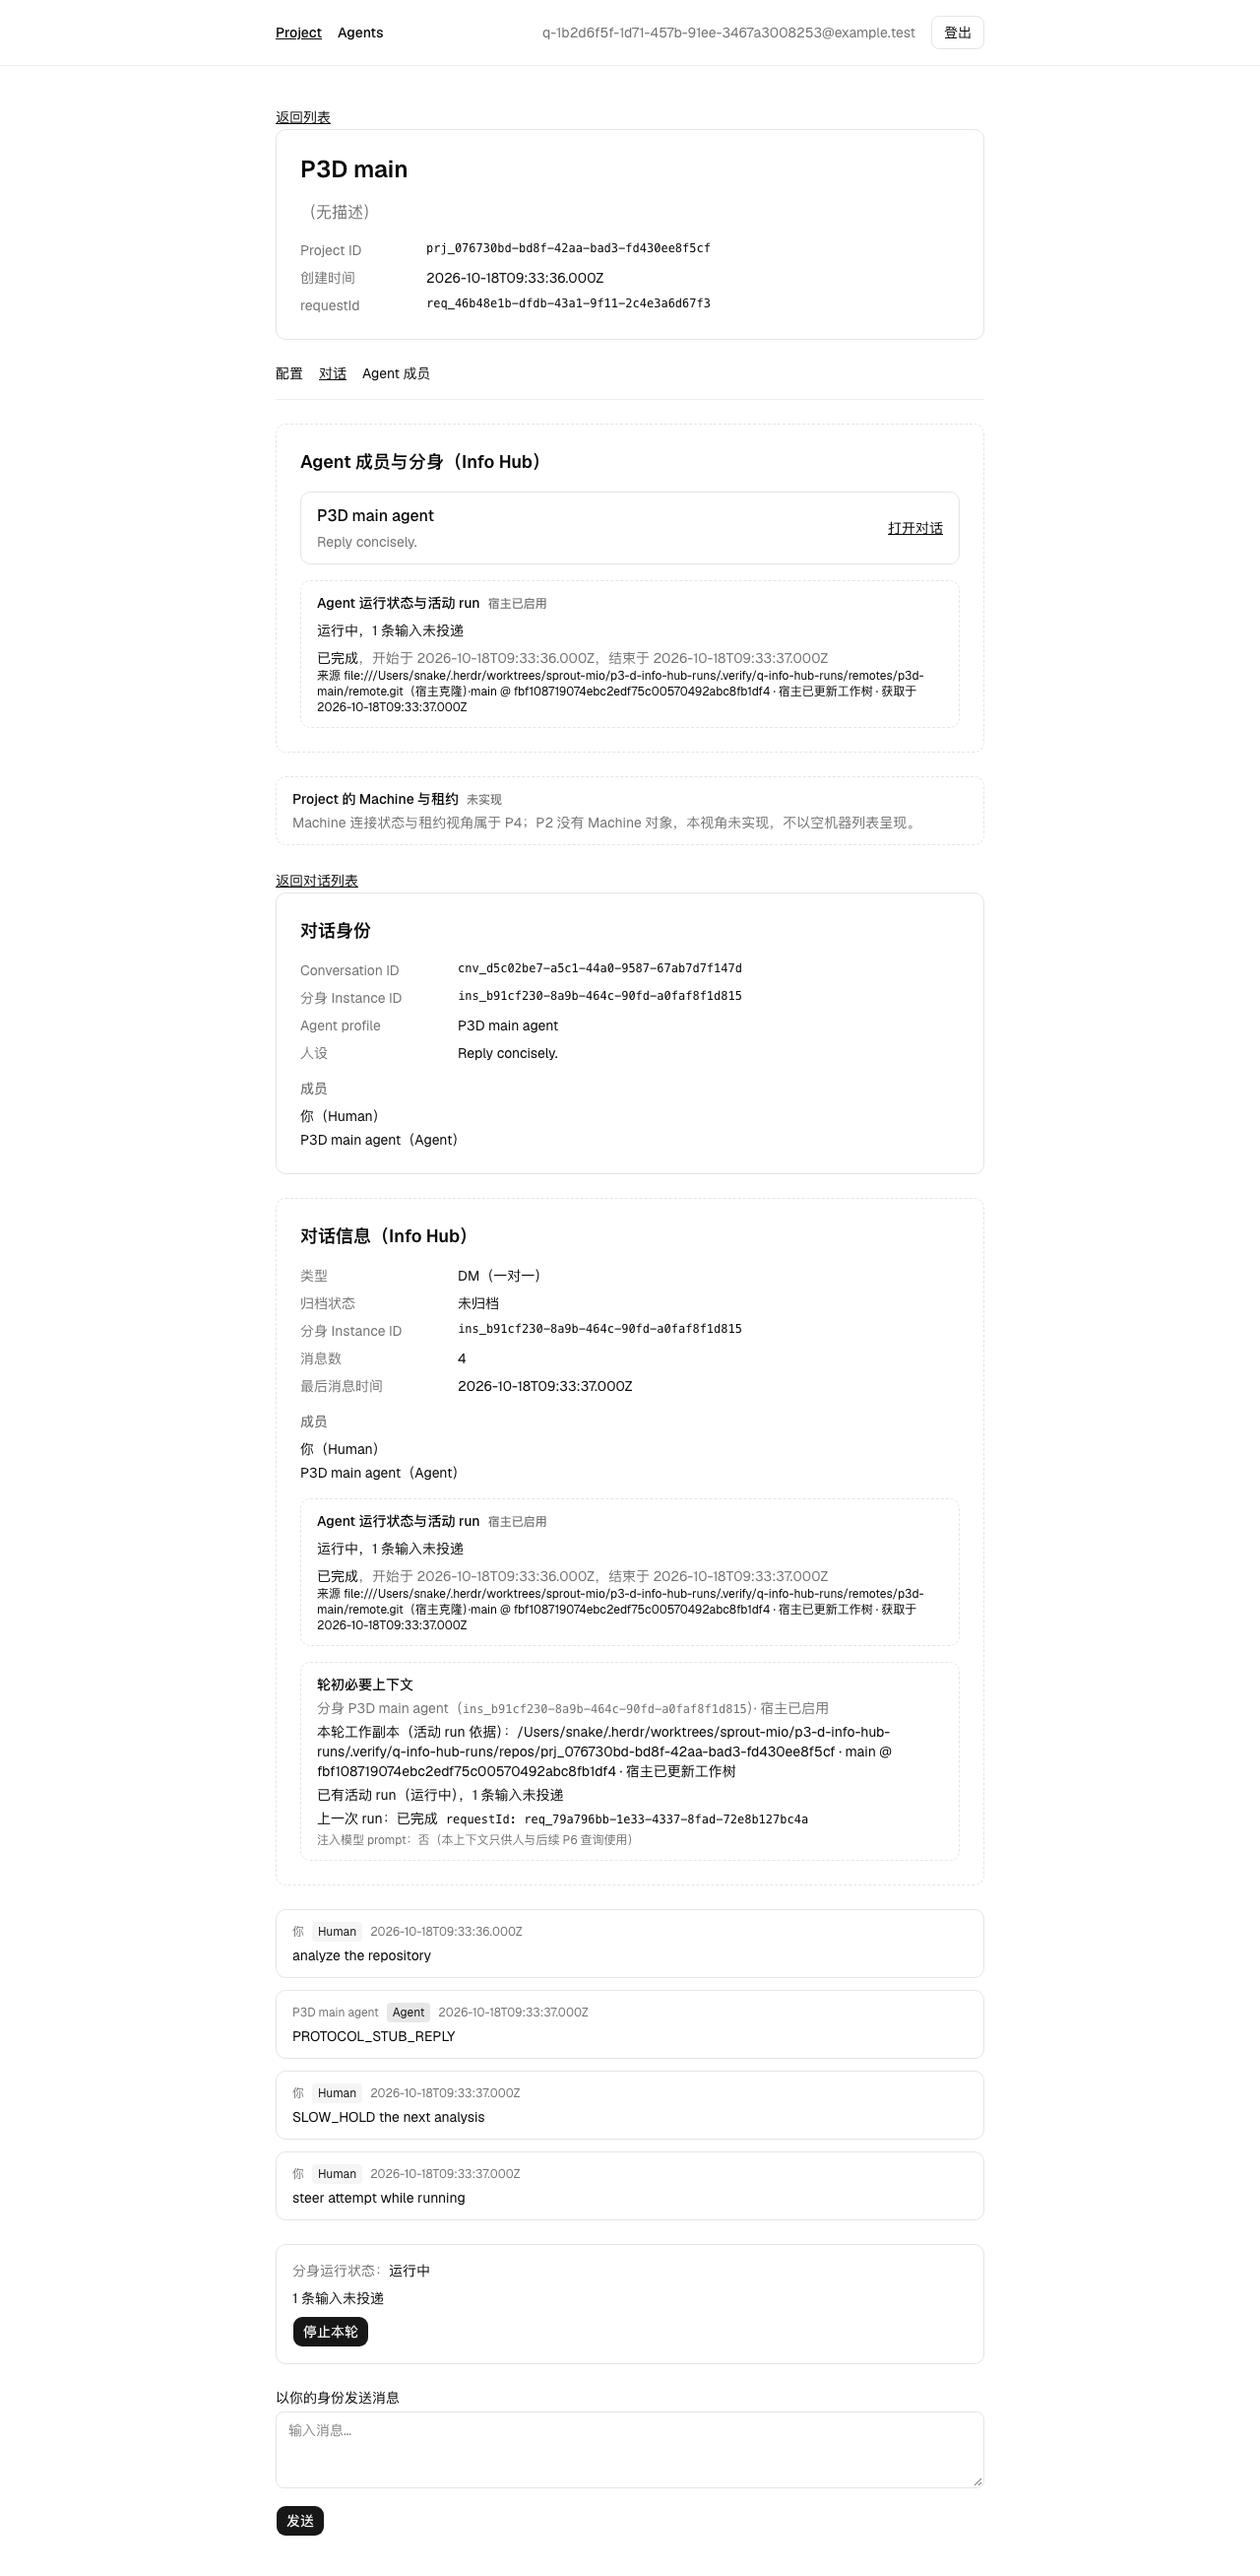
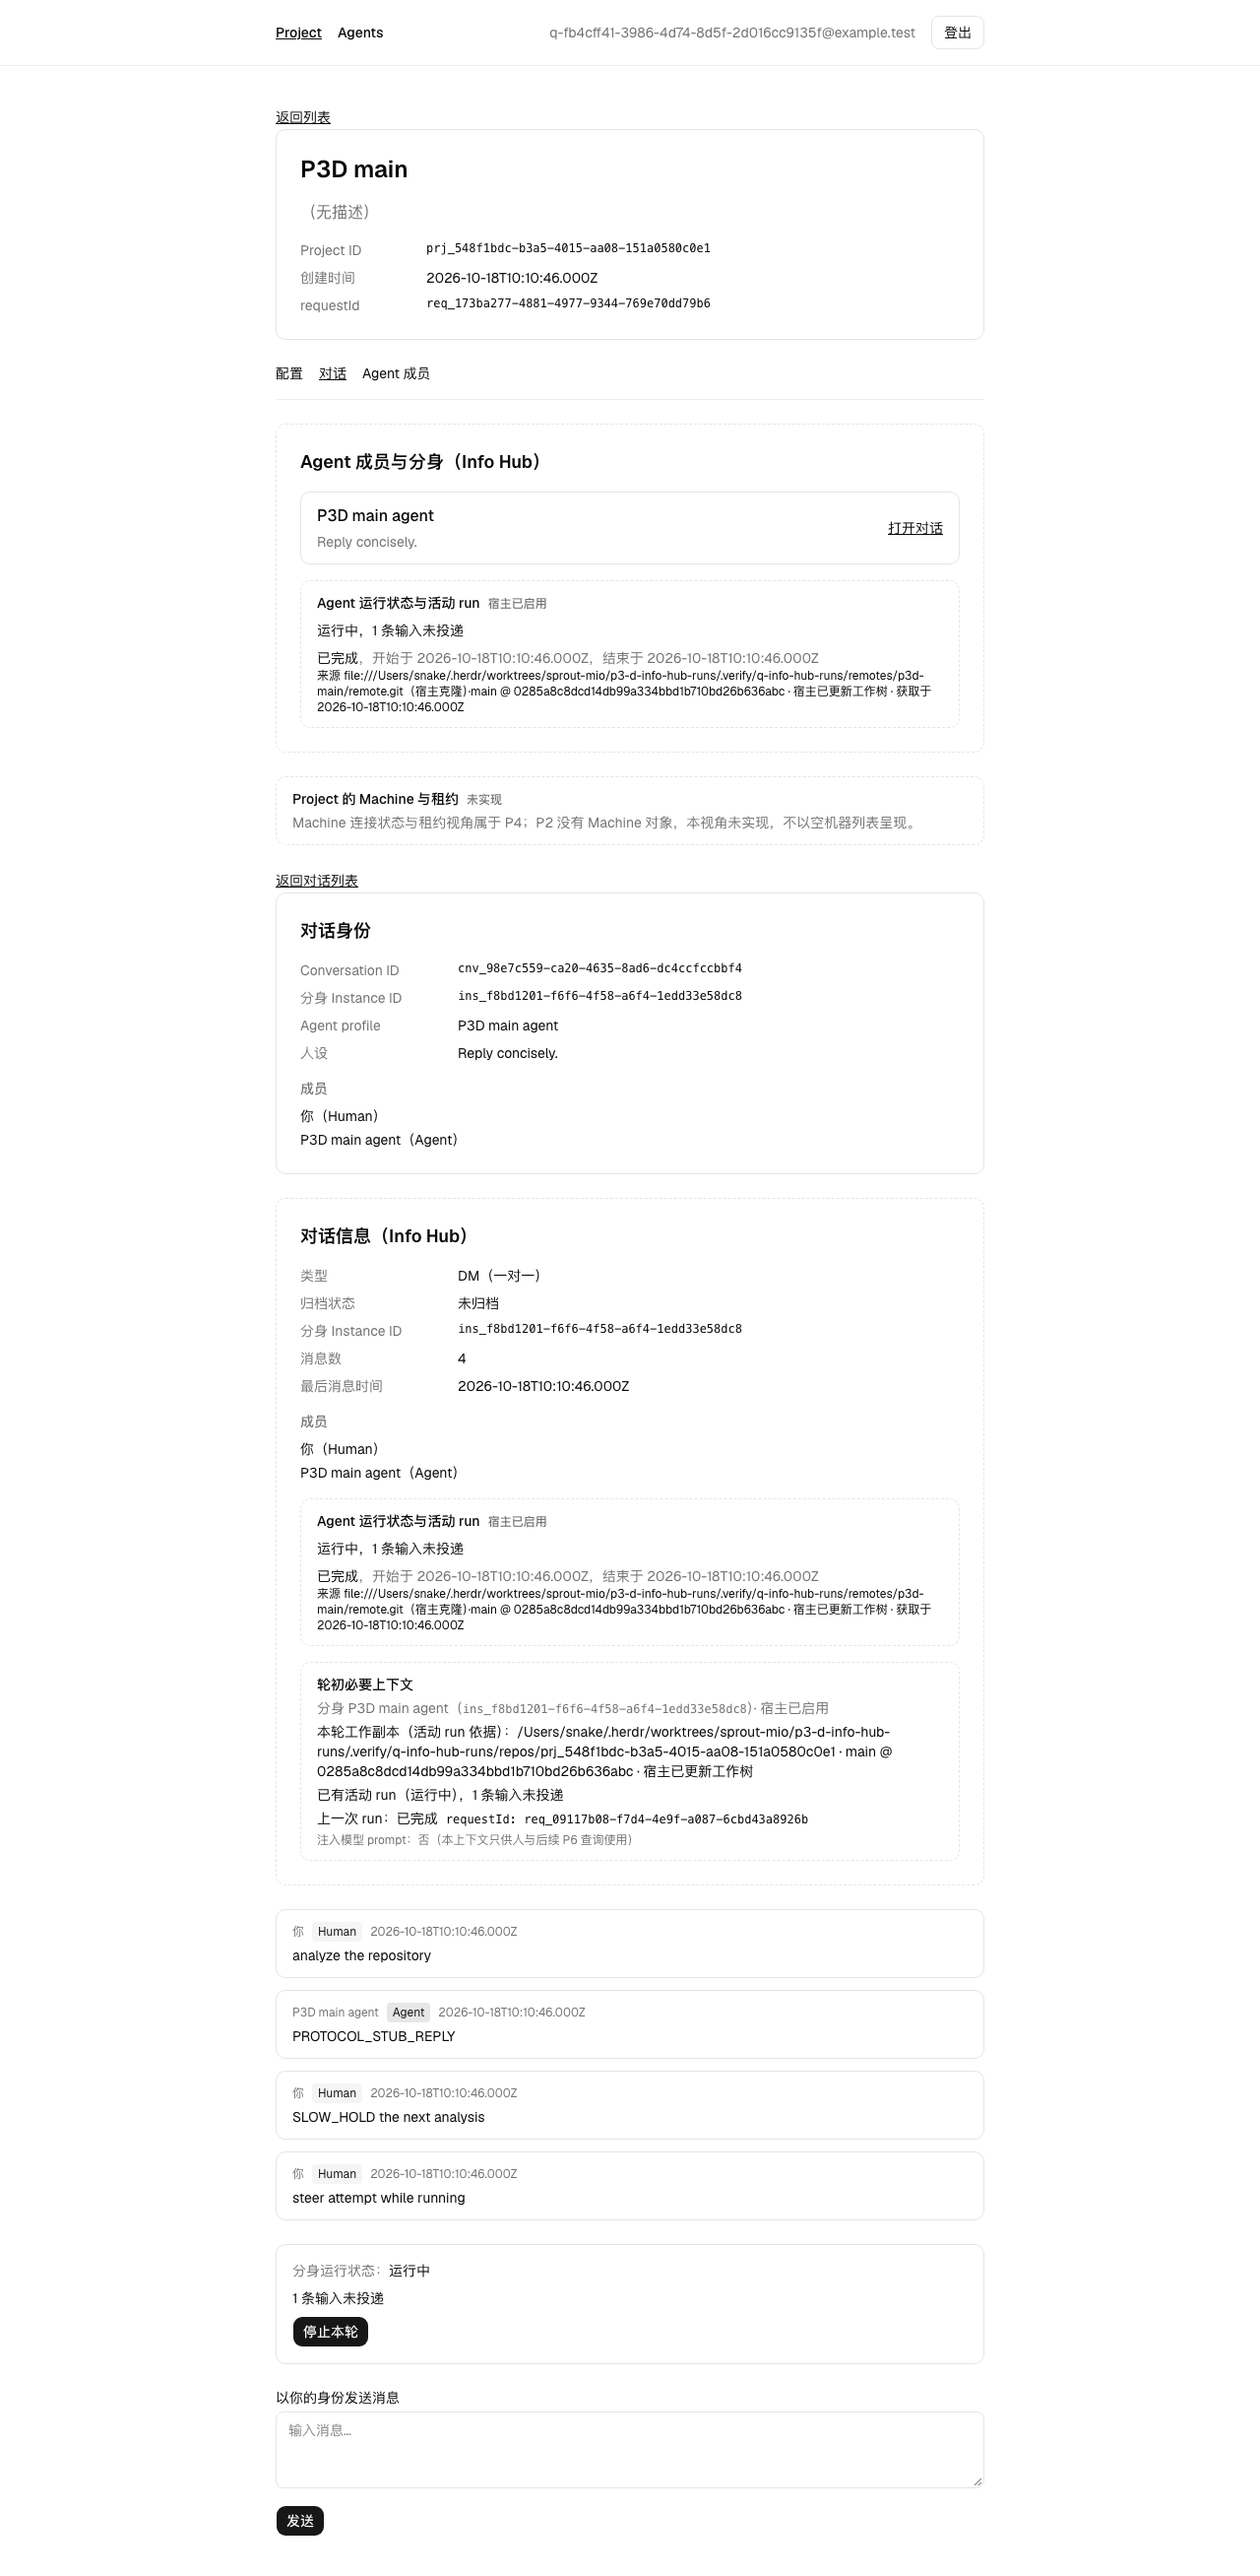
docs: record final verification results including live model run

diff --git a/docs/p3/info-hub-runs.md b/docs/p3/info-hub-runs.md
@@ -66,15 +66,17 @@
 
 所有命令在本 worktree 真实运行；长命令后台执行并写 `/tmp/p3-d-*.log`。验收只用独立 `.verify` 数据库。
 
-| 命令                                                | 退出码 | 结论与产物                                                                                               |
-| --------------------------------------------------- | ------ | -------------------------------------------------------------------------------------------------------- |
-| `pnpm exec tsc --noEmit`                            | 0      | 无错误                                                                                                   |
-| `pnpm exec vp test run tests/info-hub-runs.test.ts` | 0      | 轮初上下文字段、注入声明、跨用户零泄漏、recent 与 DB 一致。`/tmp/p3-d-test-qunit.log`                    |
-| `pnpm test`                                         | 0      | `/tmp/p3-d-test-all.log`                                                                                 |
-| `pnpm check`                                        | 0      | `/tmp/p3-d-check.log`                                                                                    |
-| `bash scripts/verify/q-info-hub-runs.sh`            | 0      | hermetic：`.verify/q-info-hub-runs/evidence.json`、`/tmp/p3-d-q.log`、截图 `docs/p3/evidence/p3-d-*.png` |
-| `bash scripts/verify.sh`                            | 0      | 20 个脚本 failed=0。`/tmp/p3-d-verify.log`                                                               |
-| `bash scripts/verify-live/pi-dm-turn.sh`            | 0      | 真实模型三轮复述。`.verify/live-pi-dm-turn/evidence.json`、`/tmp/p3-d-live.log`                          |
+| 命令                                                  | 退出码 | 结论与产物                                                                                                                                                               |
+| ----------------------------------------------------- | ------ | ------------------------------------------------------------------------------------------------------------------------------------------------------------------------ |
+| `pnpm exec tsc --noEmit`                              | 0      | `TypeScript: No errors found`                                                                                                                                            |
+| `pnpm fmt`                                            | 0      | 只格式化本 unit 新增与修改的文件                                                                                                                                         |
+| `pnpm test`                                           | 0      | 17 个文件、124 个测试通过（含新的 `tests/info-hub-runs.test.ts`）。`/tmp/p3-d-test-all.log`                                                                              |
+| `pnpm check`                                          | 0      | 150 文件格式通过，121 文件 无 lint 与类型警告。`/tmp/p3-d-check.log`                                                                                                     |
+| `bash scripts/verify/q-info-hub-runs.sh`              | 0      | 12 条 PASS：`.verify/q-info-hub-runs/evidence.json`、`/tmp/p3-d-q.log`、截图 `docs/p3/evidence/p3-d-*.png`                                                               |
+| `bash scripts/verify/j-info-hub.sh`（单跑复验）       | 0      | 7 条 PASS（含更新后的 runs 真实数据断言）。`/tmp/p3-d-j.log`                                                                                                             |
+| `bash scripts/verify/o-turn-semantics.sh`（单跑复验） | 0      | 17 条 PASS（含改精确后的 pending 断言）。`/tmp/p3-d-o.log`                                                                                                               |
+| `bash scripts/verify.sh`                              | 0      | `Verification scripts=20 failed=0`。`/tmp/p3-d-verify.log`                                                                                                               |
+| `bash scripts/verify-live/pi-dm-turn.sh`              | 0      | 真实模型（deepseek/deepseek-flash）：三轮口令复述与跨重启、steer 同轮投递、停止无回复、profile 下一轮生效。`.verify/live-pi-dm-turn/evidence.json`、`/tmp/p3-d-live.log` |
 
 q 脚本断言清单：真实构建与生产启动、三个 server function id、领域测试先过、真实 git 秘远端的完成 run 视图 commit 等于 `git rev-parse` 实值且 `fresh=true`、SLOW run 持有期间活动视图与 `pendingInputs` 等于 DB 的 pending 行数（steer 被协议桩拒绝后输入保持 pending）、轮初上下文在运行中为 `run_provenance` basis、释放后为 `project_checkout` basis、failed run 的 `errorCode/errorMessage/requestId` 进入两个视角且不编造 repo、`machines.available=false` 且 reason 指向 P4、`injectedIntoPrompt=false`、真实 Chromium 渲染 run 事实与轮初上下文且无 console 错误、第二用户对全部三个 boundary 均 `not_found` 且响应体不含 A 的 projectId/conversationId/instanceId/run id/commit/错误原文/远端路径、SIGTERM 退出 0。
 
